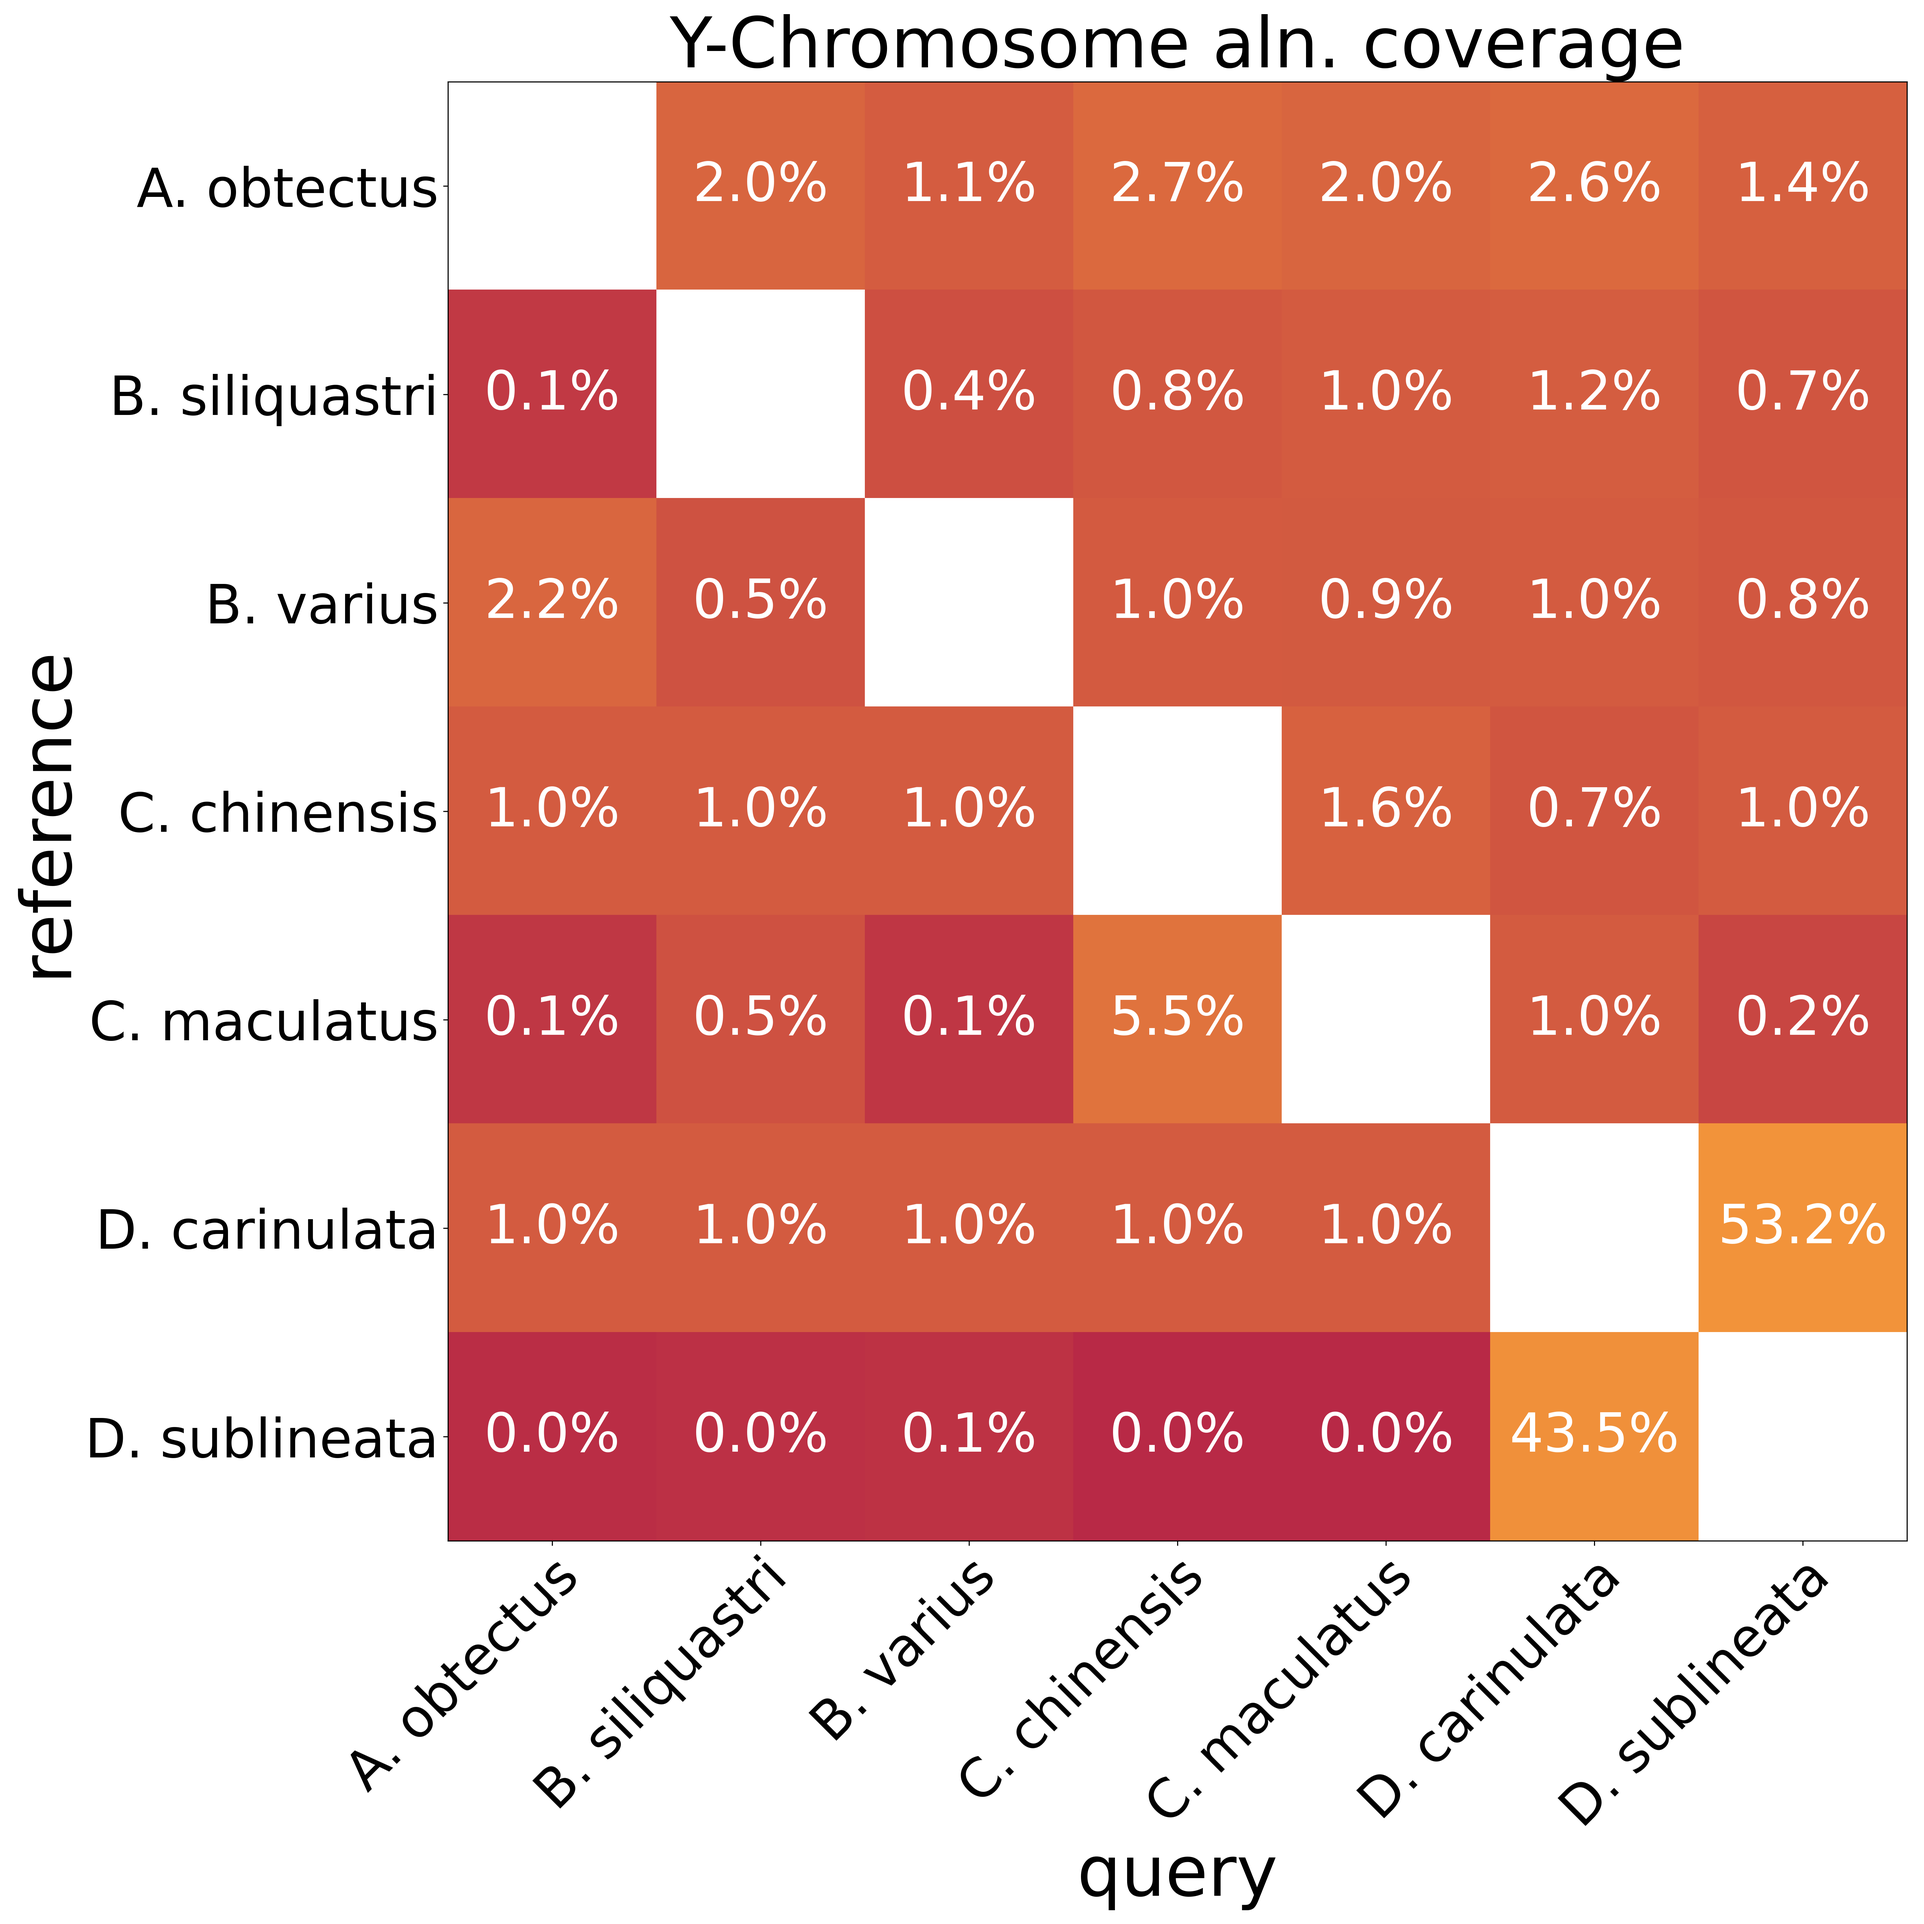
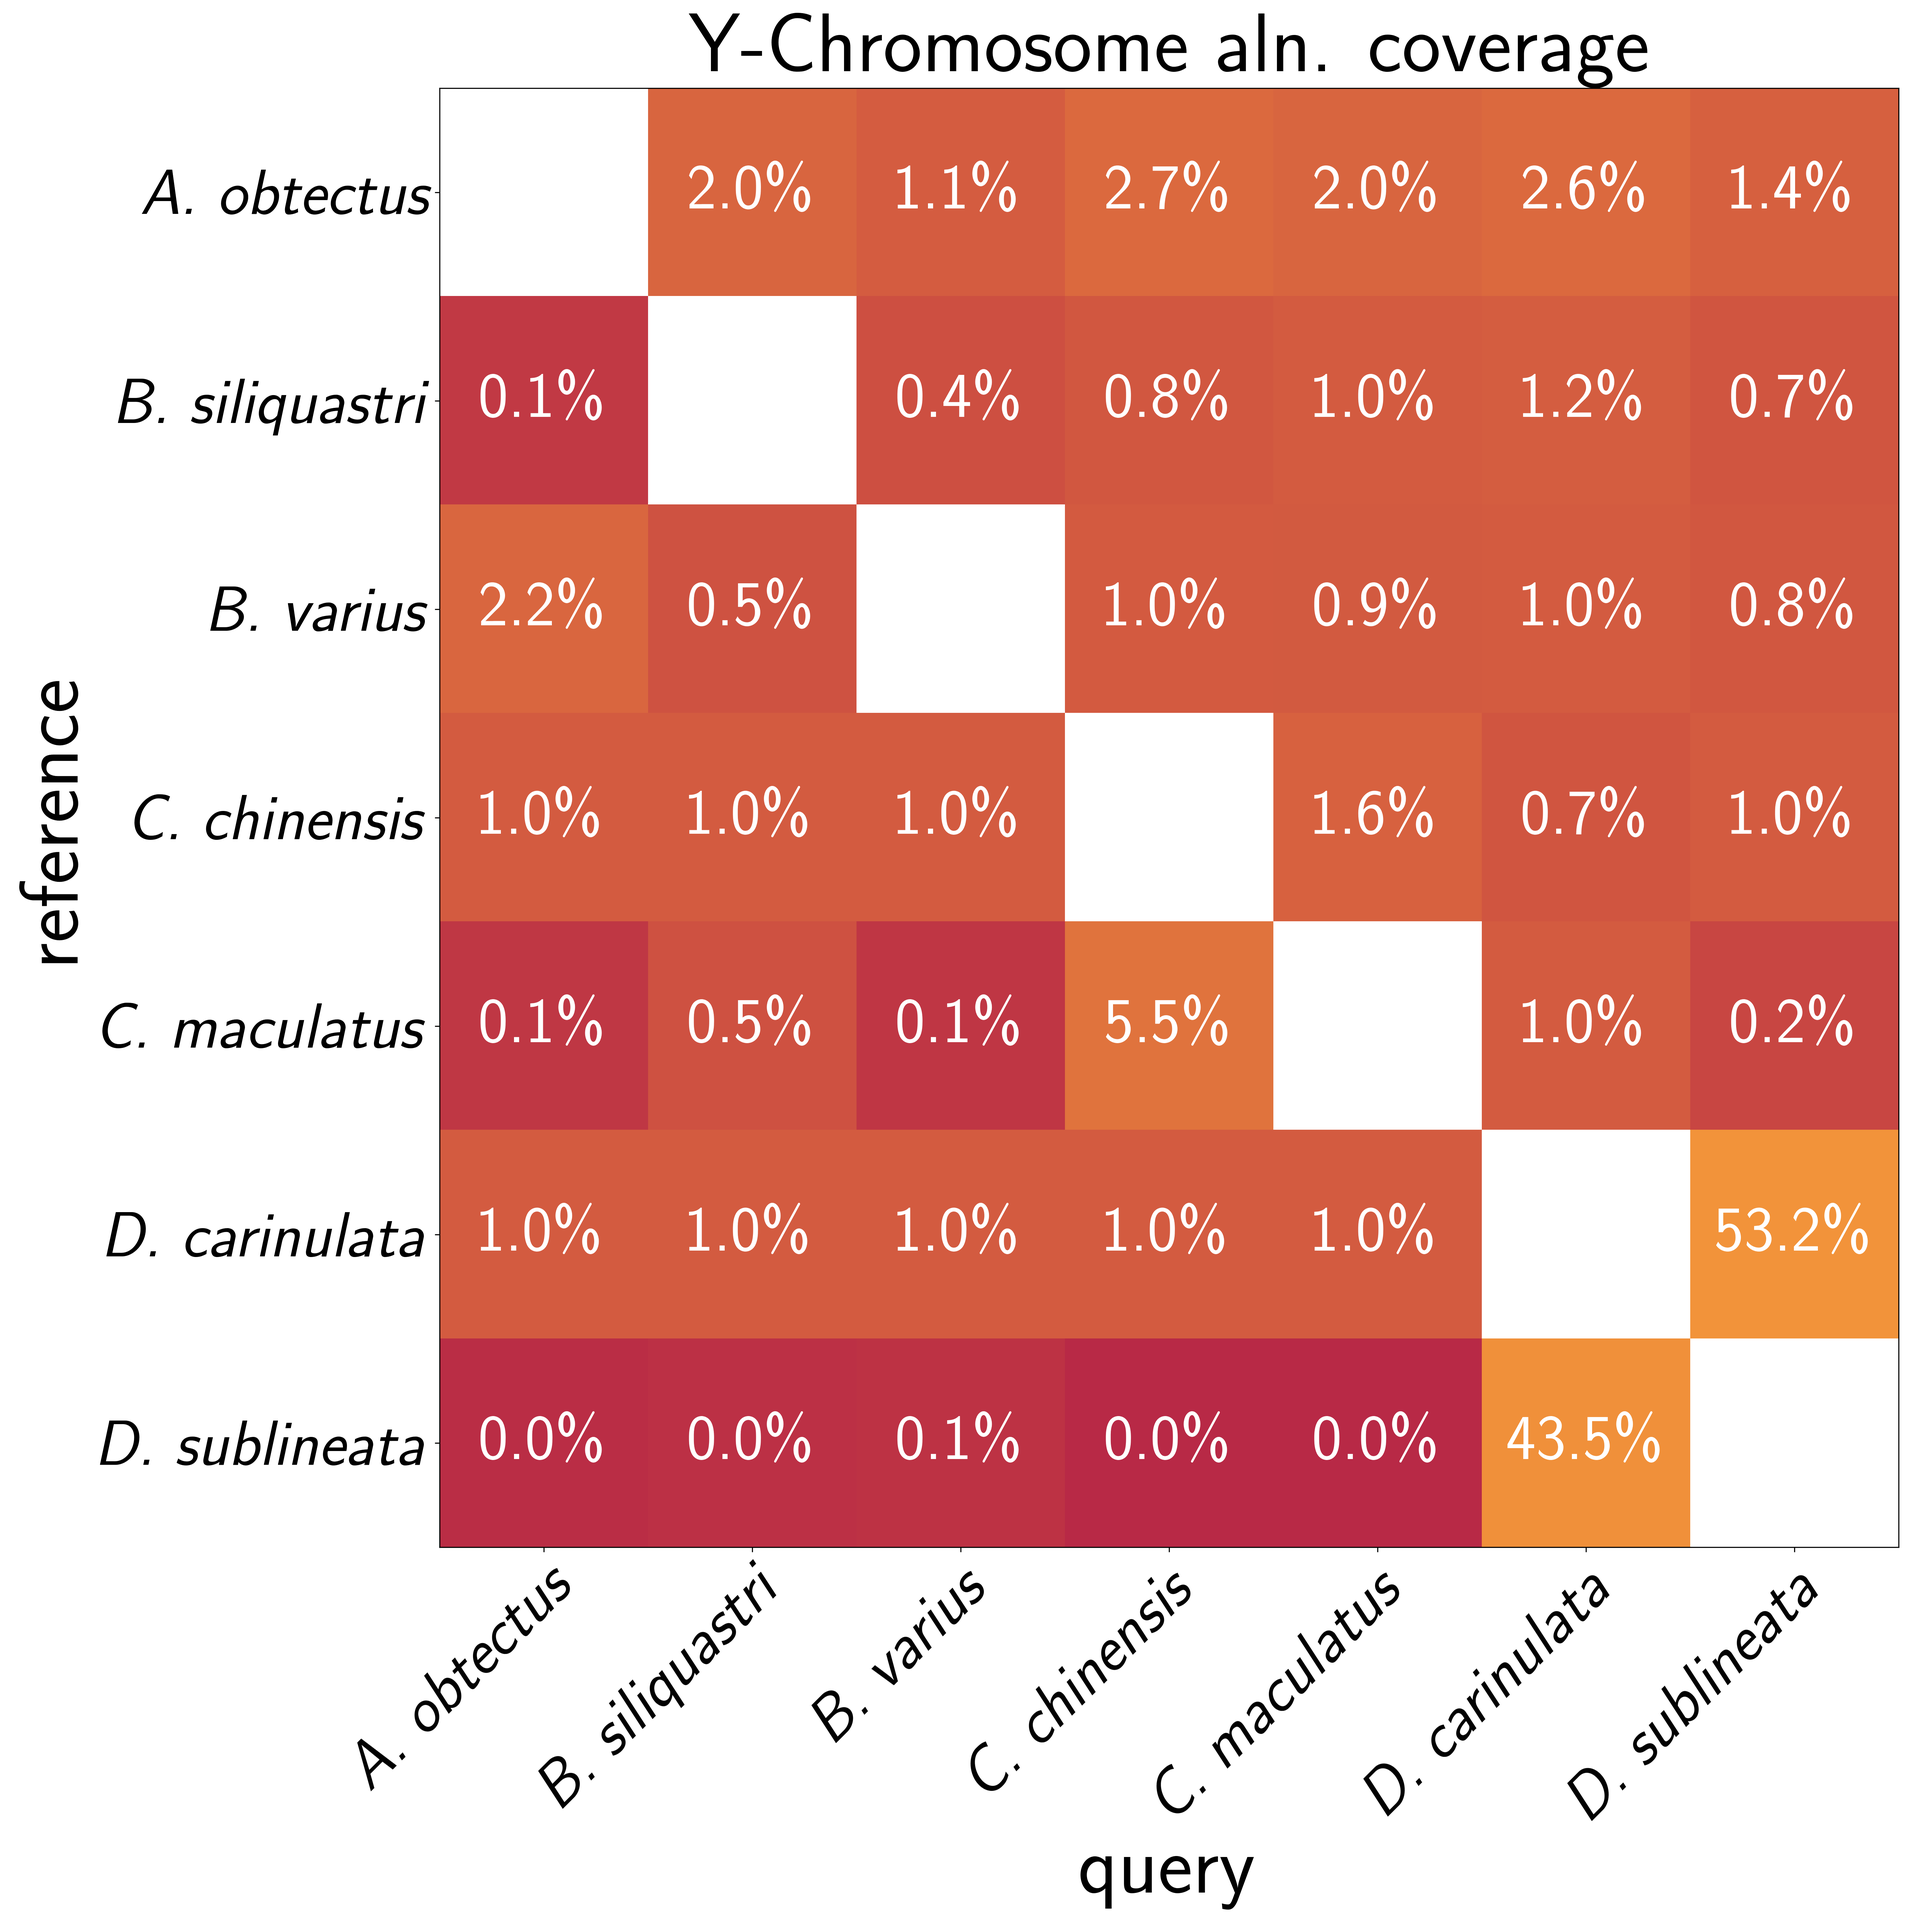
upd figures

diff --git a/index.html b/index.html
@@ -3105,13 +3105,10 @@ The min. sequence identity threshold is 95%, for min intron length see methods s
     </script>
 </div>
 <div id="pairwise_orthogroups" class="tabcontent">
-    <p>How many orthogroups are shared between species pairs, <code>Orthogroups_SpeciesOverlaps.txt</code></p></p>
-    <pre id="of_overlaps_stats" style="height:30vh; overflow:auto; margin:0;"></pre>
-    <script>
-    fetch("data/orthofinder/Orthogroups_SpeciesOverlaps.txt")
-        .then(r => r.text())
-        .then(t => document.getElementById("of_overlaps_stats").textContent = t);
-    </script>
+    <p>How many orthogroups are shared between species pairs, <code>data/orthofinder/Orthogroups_SpeciesOverlaps.txt</code></p></p>
+    <p float="left">
+        <img loading="lazy" src="data/orthofinder/Orthogroups_SpeciesOverlaps.png" width="40%" />
+    </p>
 </div>
 <div id="statistics_overall" class="tabcontent">
     <pre id="of_stats_overall" style="height:30vh; overflow:auto; margin:0;"></pre>

diff --git a/src/pairwise_wga_heatmap.py b/src/pairwise_wga_heatmap.py
@@ -192,12 +192,15 @@ def make_array_for_heatmap(aln_coord_files, sex_chr_dict, faidx_dicts, chr = "X"
 
 
 
-def plot_heatmap(counts_array, species_list, filename = "BRH_orthologs_heatmap.png", title = f"pairwise orthologs counts", log_data = False):
+def plot_heatmap(counts_array, species_list, filename = "BRH_orthologs_heatmap.png", title = f"pairwise orthologs counts", log_data = False,integer_numbers=False):
     """
     plot the heatmap created in make_array_for_heatmap()
     """
+    plt.rcParams['text.usetex'] = True # use \textit{} for species names
+    plt.rcParams['text.latex.preamble'] = r'\usepackage{sfmath} \renewcommand{\familydefault}{\sfdefault}'
+    plt.rcParams['font.family'] = 'sans-serif'
 
-    fs = 40
+    fs = 48
     aspect_ratio = 18 / 18
     height_pixels = 2000  # Height in pixels
     width_pixels = int(height_pixels * aspect_ratio)  # Width in pixels
@@ -212,17 +215,21 @@ def plot_heatmap(counts_array, species_list, filename = "BRH_orthologs_heatmap.p
     # create text annotations
     for i in range(len(species_list)):
         for j in range(len(species_list)):
-            if i==j:
+            if i==j and not integer_numbers:
                 continue
             try:
                 count = counts_array[i, j]
                 if log_data: # back-transform to actual percentage, only log by color
                     count = math.exp(count)
-                text = ax.text(j, i, f"{count:.1f}%",ha="center", va="center", color="w", fontsize = fs)
+                if integer_numbers:
+                    text = ax.text(j, i, f"{count}",ha="center", va="center", color="w", fontsize = fs*0.9)
+                else:
+                    text = ax.text(j, i, f"{count:.1f}\%",ha="center", va="center", color="w", fontsize = fs)
             except:
                 continue
 
     species_list = [species.replace("_", ". ") for species in species_list]
+    species_list = [f"\\textit{{{species}}}" for species in species_list]
     # Show all ticks and label them with the respective list entries
     ax.set_xticks(range(len(species_list)), labels=species_list,rotation=45, ha="right", rotation_mode="anchor", fontsize = fs)
     ax.set_yticks(range(len(species_list)), labels=species_list, fontsize = fs)
@@ -245,7 +252,7 @@ if __name__ == "__main__":
     aln_coord_files,aln_coord_files_cmac = get_aln_coord_files(username=username)
     outdir_wga = f"/Users/{username}/work/PhD_code/PhD_chapter2/data/pairwise_wga"
 
-    if True:
+    if False:
         ###### chrysomelidae between-species comparison
 
         logtr = True
@@ -261,6 +268,18 @@ if __name__ == "__main__":
             print(perc_X_overlap)
             plot_heatmap(counts_array=perc_X_overlap, species_list=species_list, log_data=logtr,
             filename = f"{outdir_wga}/{chr}_chr_{log_text}_alignment_coverage_heatmap.png", title = f"{chr}-Chromosome aln. coverage")
+
+    if True:
+        ### make orthofinder pairwise shared orthogroups heatmap
+        infile = f"/Users/{username}/work/PhD_code/PhD_chapter2/data/orthofinder/Orthogroups_SpeciesOverlaps.txt"
+        df = pd.read_csv(infile, sep="\t", index_col=0)
+        df = df.drop(columns="C_maculatusC", index="C_maculatusC")
+        species_list = list(df.columns)
+        array = df.to_numpy(dtype=int)
+        print(array)
+        print(df)
+        plot_heatmap(counts_array=array, species_list=species_list, log_data=False, integer_numbers=True,
+            filename = infile.replace(".txt", ".png"), title = f"Pairwise shared orthogroups")
 
     if False:
         ###### Cmac within-species comparison
